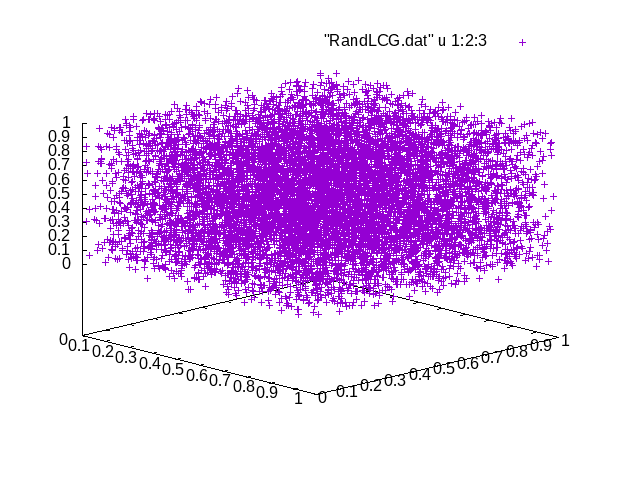
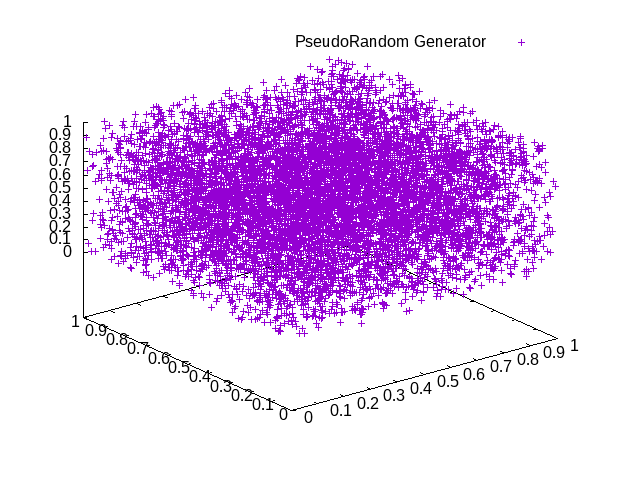
add Infamous section (with plot)

diff --git a/D1-exercise/src/MyRNG.cpp b/D1-exercise/src/MyRNG.cpp
@@ -1,31 +1,33 @@
 #include <iostream>
 #include <fstream>
+#include <cstdint>
 
 using namespace std;
 
 class MyRNG{
 
 public:
-  MyRNG(int, int);
+  MyRNG();
   ~MyRNG();
   void set_seed(int);
   int get_seed();
   double my_lcg();
+  double infamous_choice();
   
 private:
-  int a_, m_, q_, r_, seed_, status_;
+  int a_ = 16807;
+  int m_ = 2147483647;
+  int q_, r_, seed_, status_;
 
 };
 
-MyRNG::MyRNG(int a, int m){
+MyRNG::MyRNG(){
 
 #ifdef __DEBUG
-  cout << "Within constructor;\n";
+  cout << "Within constructor;\na = " << a_ << " m = " << m_ << endl;
 #endif
-  a_ = a;
-  m_ = m;
-  q_ = (int) (m/a);
-  r_ = m % a;
+  q_ = (int) (m_/a_);
+  r_ = m_ % a_;
   
 }
 
@@ -66,6 +68,74 @@ double MyRNG::my_lcg(){
   return ((double) next) / ((double) m_);
 }
 
+double MyRNG::infamous_choice(){
+  int64_t next = (a_ * status_);
+  next = next % m_;
+
+  status_ = (int) next;
+
+  return ((double) next) / ((double) m_);
+}
+
+class BadRNG{
+
+public:
+  BadRNG();
+  ~BadRNG();
+  void set_seed(int);
+  int get_seed();
+  double infamous_choice();
+  
+private:
+  int64_t a_ = 65539;
+  int64_t m_ = 2147483648;
+  int64_t q_, r_, seed_, status_;
+
+};
+
+BadRNG::BadRNG(){
+
+#ifdef __DEBUG
+  cout << "Within constructor;\na = " << a_ << " m = " << m_ << endl;
+#endif
+
+  q_ = (int) (m_/a_);
+  r_ = m_ % a_;
+  
+}
+
+BadRNG::~BadRNG(){
+#ifdef __DEBUG
+  cout << "Within distructor\n";
+#endif
+}
+
+void BadRNG::set_seed(int s){
+  seed_ = s;
+  status_ = s;
+
+#ifdef __DEBUG
+  cout << "Choosed seed is " << seed_ << endl;
+#endif
+}
+
+int BadRNG::get_seed(){
+#ifdef __DEBUG
+  cout << "Within actual_seed function\n";
+#endif
+  return seed_;
+}
+
+double BadRNG::infamous_choice(){
+  int64_t next = (a_ * status_);
+  next = next % m_;
+
+  status_ = next;
+
+  return ((double) next) / ((double) m_);
+}
+
+
 void print_output_file(string out, int N, double* dat){
 
   char* NameFile = &out[0];
@@ -93,14 +163,12 @@ void print_output_file(string out, int N, double* dat){
 
 int main(int argc, char** argv){
 
-  int m = 2147483647;
-  int a = 16807;
   int Nrand = 10000;
   // int Nrand = 10;
   double* myrand = new double[Nrand];
   double correlation = 0.;
   
-  MyRNG rng(a, m);
+  MyRNG rng;
   rng.set_seed(1234);
 
   for(int j = 0; j < Nrand; j++)
@@ -115,6 +183,22 @@ int main(int argc, char** argv){
   cout << "the correlation obtained for the obtained random sequence is: " << correlation << endl;
 
   print_output_file("RandLCG.dat", Nrand, myrand);
+
+  // "infamous" section
+  BadRNG InfCh;
+  InfCh.set_seed(1234);
+
+  for(int j = 0; j < Nrand; j++)
+    myrand[j] = InfCh.infamous_choice();
+
+  // calculate correlation
+  for(int j = 0; j < Nrand-2; j++)
+    correlation += myrand[j]*myrand[j+1];
+
+  correlation /= Nrand;
+
+  cout << "the correlation obtained for the obtained random sequence is: " << correlation << endl;
+  print_output_file("InfamousLCG.dat", Nrand, myrand);
   
   delete [] myrand;
 
